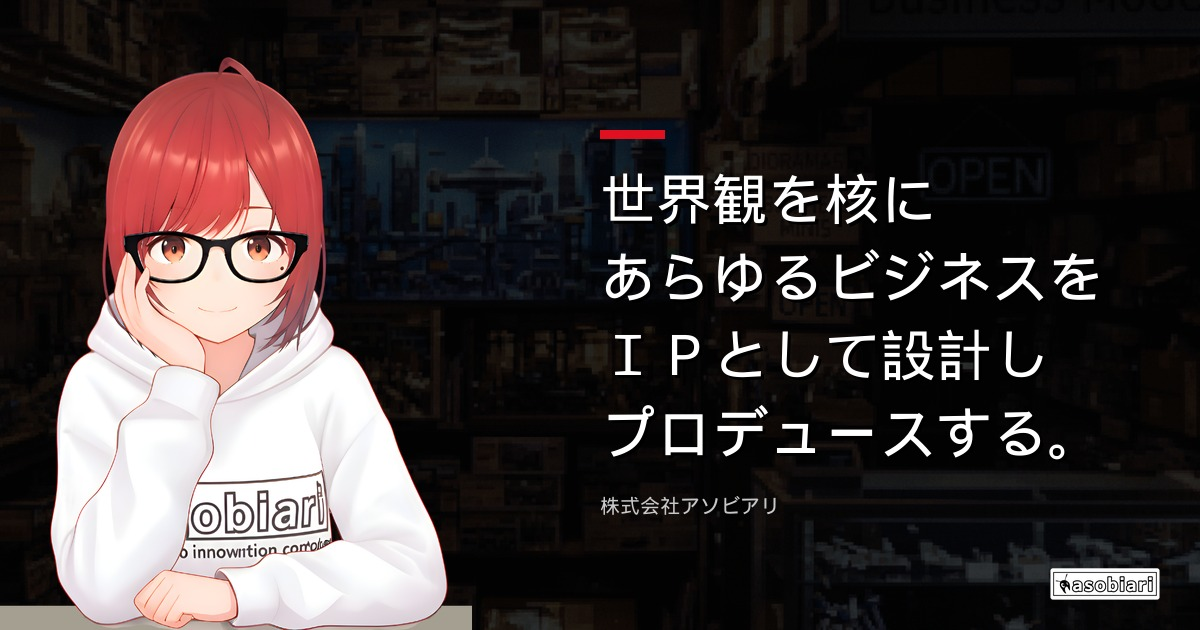
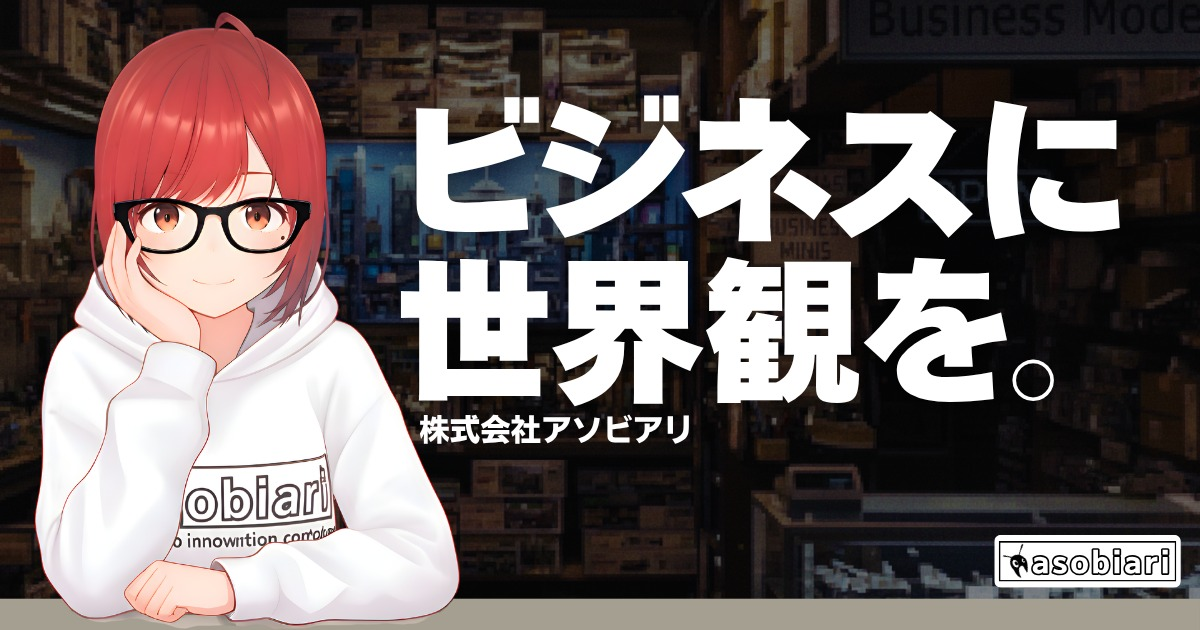
Add files via upload

diff --git a/index.html b/index.html
@@ -229,13 +229,13 @@
       z-index: 2;
       padding: 0 48px;
       width: 100%;
-      text-align: center;
+      text-align: left;
     }
     .hero-copy h1 {
       font-weight: 900;
-      font-size: clamp(3.2rem, 8vw, 6.5rem);
+      font-size: clamp(4rem, 10vw, 8.5rem);
       color: #fff;
-      line-height: 1.25;
+      line-height: 1.2;
     }
     .hero-line { display: block; overflow: hidden; }
     .hero-line1 {
@@ -1301,10 +1301,8 @@
       <section class="hero" id="hero">
         <div class="hero-copy">
           <h1>
-            <span class="hero-line hero-line1">世界観を核に</span>
-            <span class="hero-line hero-line2">あらゆるビジネスを</span>
-            <span class="hero-line hero-line3">IPとして設計し</span>
-            <span class="hero-line hero-line4">プロデュースする。</span>
+            <span class="hero-line hero-line1">ビジネスに</span>
+            <span class="hero-line hero-line2">世界観を。</span>
           </h1>
         </div>
         <div class="scroll-hint">SCROLL</div>
